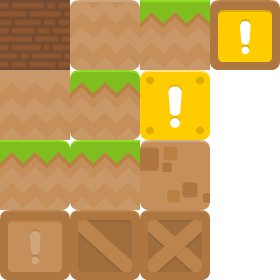
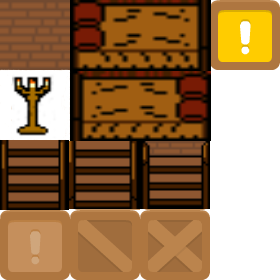
cutscene finished but its within the game scene

diff --git a/src/scenes/Cutscene.js b/src/scenes/Cutscene.js
@@ -9,61 +9,205 @@ class Cutscene extends Phaser.Scene {
         this.load.tilemapTiledJSON('map', 'assets/cutscene.json');
 
         // tiles in spritesheet 
-        this.load.spritesheet('tiles', 'assets/bedroom.png', {frameWidth: 70, frameHeight: 70});
+        this.load.spritesheet('tiles', 'assets/tiles.png', {frameWidth: 70, frameHeight: 70});
+        
+        // sky assets
+        this.load.image('sun', './assets/sun_shiny.png');
+        this.load.image('bigCloud', './assets/big_cloud.png');
+        this.load.image('smallCloud', './assets/Cloud.png');
+
+        // player/sprite animations and animations
+        this.load.atlas('player', 'assets/player.png', 'assets/player.json');
+        this.load.atlas('demon', 'assets/demon.png', 'assets/demon.json');
+        this.load.image('heart', './assets/heart.png');
+        
+        // simple coin image
+        this.load.image('coin', 'assets/coinGold.png');
+
+        //  game music
+        this.load.audio('music', './assets/gamemusic.mp3');
     }
+    
+
+    
+
+
 
     create() {
-
-         // load the map 
-         map = this.make.tilemap({key: 'map'});
+        //music
+        this.music = this.sound.add('music');
+        var musicConfig = {
+            mute: false,
+            volume: 1,
+            rate: 1,
+            detune: 0,
+            seek: 0,
+            loop: true,
+            delay: 0
+        }    
+        this.music.play(musicConfig);
     
-         // tiles for the ground layer
-         var groundTiles = map.addTilesetImage('tiles');
-         // create the ground layer
-         groundLayer = map.createDynamicLayer('World', groundTiles, 0, 0);
-         // the player will collide with this layer
-         groundLayer.setCollisionByExclusion([-1]);
-
-
-
-
-
+        //  replace with sky blue
         this.add.rectangle(0, 0, 2200, 540, 0x87ceeb).setOrigin(0, 0);
         this.add.rectangle(0, 500, 2200, 200, 0x9b7653).setOrigin(0, 0);
+        this.add.image(-350, -300, 'sun').setScale(3).setOrigin(0,0);
+        this.add.image(80, 50, 'bigCloud').setScale(3).setOrigin(0,0);
+        this.add.image(200, 100, 'smallCloud').setScale(3).setOrigin(0,0);
+        this.add.image(360, 80, 'smallCloud').setScale(3).setOrigin(0,0);
+        this.add.image(500, 100, 'bigCloud').setScale(3).setOrigin(0,0);
+        this.add.image(750, 80, 'bigCloud').setScale(3).setOrigin(0,0);
+        this.add.image(1200, 100, 'bigCloud').setScale(3).setOrigin(0,0);
+        this.add.image(1300, 50, 'bigCloud').setScale(3).setOrigin(0,0);
+        this.add.image(1400, 80, 'smallCloud').setScale(3).setOrigin(0,0);
+        this.add.image(1500, 50, 'bigCloud').setScale(3).setOrigin(0,0);
+        this.add.image(1700, 80, 'bigCloud').setScale(3).setOrigin(0,0);
 
-        // menu display
-        var menuConfig = {
-            fontFamily: 'Comic Sans MS',
-            fontSize: '24px',
-            backgroundColor: false,
-            color: '#4287f5',
-            align: 'right',
-            padding: {
-                top: 5,
-                bottom: 5,
-            },
-            fixedWidth: 0
-        }
+        // load the map 
+        map = this.make.tilemap({key: 'map'});
+    
+        // tiles for the ground layer
+        var groundTiles = map.addTilesetImage('tiles');
+        // create the ground layer
+        groundLayer = map.createDynamicLayer('World', groundTiles, 0, 0);
+        // the player will collide with this layer
+        groundLayer.setCollisionByExclusion([-1]);
+    
 
-        //show menu text
-        let centerX = game.config.width / 2;
-        let centerY = game.config.height / 2;
-        let textSpacer = 64;
+        // coin image used as tileset
+        var coinTiles = map.addTilesetImage('coin');
+        // add coins as tiles
+        coinLayer = map.createDynamicLayer('Coins', coinTiles, 0, 0);
+
+
+        // set the boundaries of our game world
+        this.physics.world.bounds.width = groundLayer.width;
+        this.physics.world.bounds.height = groundLayer.height;
+    
+        // create the player sprite    
+        player = this.physics.add.sprite(200, 200, 'player').setOrigin(0,0);
+        player.setBounce(0.2); // our player will bounce from items
+        player.setCollideWorldBounds(true); // don't go out of the map    
+        
+        //create the demon sprite
+        demon = new Demon(this, 500, 440, 'demon', 0, 30).setOrigin(0,0);  
+
+        // small fix to our player and demon images, we resize the physics body object slightly
+        //player.body.setSize(player.width - 48, player.height - 18);
+
+        demon.setScale(3);
+        demon.setSize(demon.width, demon.height + 48);
+        
+        // player will collide with the level tiles 
+        this.physics.add.collider(groundLayer, player);
+      
+       coinLayer.setTileIndexCallback(17, this.collectCoin, this.function); // the coin id is 17
+        // when the player overlaps with a tile with index 17, collectCoin will be called    
+        this.physics.add.overlap(player, coinLayer);
 
     
-        this.add.text(centerX, centerY - textSpacer, 'MAKE A CUTSCENE HERE AARON', menuConfig).setOrigin(0.5);
-        centerX = game.config.width / 2;
-        centerY = game.config.height / 2;
-        menuConfig.color = '#4287f5';
-        this.add.text(centerX, centerY + textSpacer, 'PRESS ENTER TO FINISH CUTSCENE', menuConfig).setOrigin(0.5);
 
-        // define keys
-        keyENTER = this.input.keyboard.addKey(Phaser.Input.Keyboard.KeyCodes.ENTER);
+        // player walk animation
+        this.anims.create({
+            key: 'walk',
+            frames: this.anims.generateFrameNames('player', {
+              prefix: 'player_',
+              start: 2,
+              end: 3,
+            }),
+            frameRate: 10,
+            repeat: -1
+          });
+        // idle with only one frame, so repeat is not neaded
+        this.anims.create({
+            key: 'idle',
+            frames: [{key: 'player', frame: 'player_0'}],
+            frameRate: 10,
+        });
+    
+        this.anims.create({
+            key: 'jump',
+            frames: [{ key: 'player', frame: 'player_1' }],
+            frameRate: 10,
+          });
+    
+        cursors = this.input.keyboard.createCursorKeys();
+    
+        // set bounds so the camera won't go outside the game world
+        this.cameras.main.setBounds(0, 0, map.widthInPixels, map.heightInPixels);
+        // make the camera follow the player
+        this.cameras.main.startFollow(player);
+    
+        // set background color, so the sky is not black    
+        this.cameras.main.setBackgroundColor('#000000');
+          
+        this.heartAttack = new Heartbreak(this, 2200, 210, 'heart', 0, 30).setOrigin(0,0);
+
+
+
+
+        text = this.add.text(20, 550, '0', {
+            fontSize: '50px',
+            fill: '#00ff00'
+        });
+        text.setScrollFactor(0);
     }
+    
+    update(time, delta) {
+        this.heartAttack.update();
+        demon.update();
 
-    update() {
-        if (Phaser.Input.Keyboard.JustDown(keyENTER)) {
-            this.scene.start("gameScene");  
+        // Player Controls
+        if (cursors.left.isDown)
+        {
+            player.body.setVelocityX(-200);
+            player.anims.play('walk', true); // walk left
+            player.flipX = true; // flip the sprite to the left
+        }
+        else if (cursors.right.isDown)
+        {
+            player.body.setVelocityX(200);
+            player.anims.play('walk', true);
+            player.flipX = false; // use the original sprite looking to the right
+        } else {
+            player.body.setVelocityX(0);
+            player.anims.play('idle', true);
+        }
+        // jump 
+        if (cursors.up.isDown && player.body.onFloor())
+        {
+            player.body.setVelocityY(-500);        
+        }
+
+        // check collisions
+        if(this.checkCollision(player, this.heartAttack)) {
+            this.heartAttack.reset();
+        }
+        if(this.checkCollision(player, demon)) {
+            demon.reset();
         }
     }
-  }
+
+
+    
+
+    // this function will be called when the player touches a coin
+    collectCoin(sprite, tile) {
+        coinLayer.removeTileAt(tile.x, tile.y); // remove the tile/coin
+        score++; // add 10 points to the score
+        text.setText(score); // set the text to show the current score
+        return false;
+    }
+
+
+    checkCollision(character, object1) {
+        // simple AABB checking
+        if (character.x < object1.x + object1.width && 
+            character.x + character.width > object1.x && 
+            character.y < object1.y + object1.height &&
+            character.height + character.y > object1.y) {
+                return true;
+        } else {
+            return false;
+        }
+    }
+}
